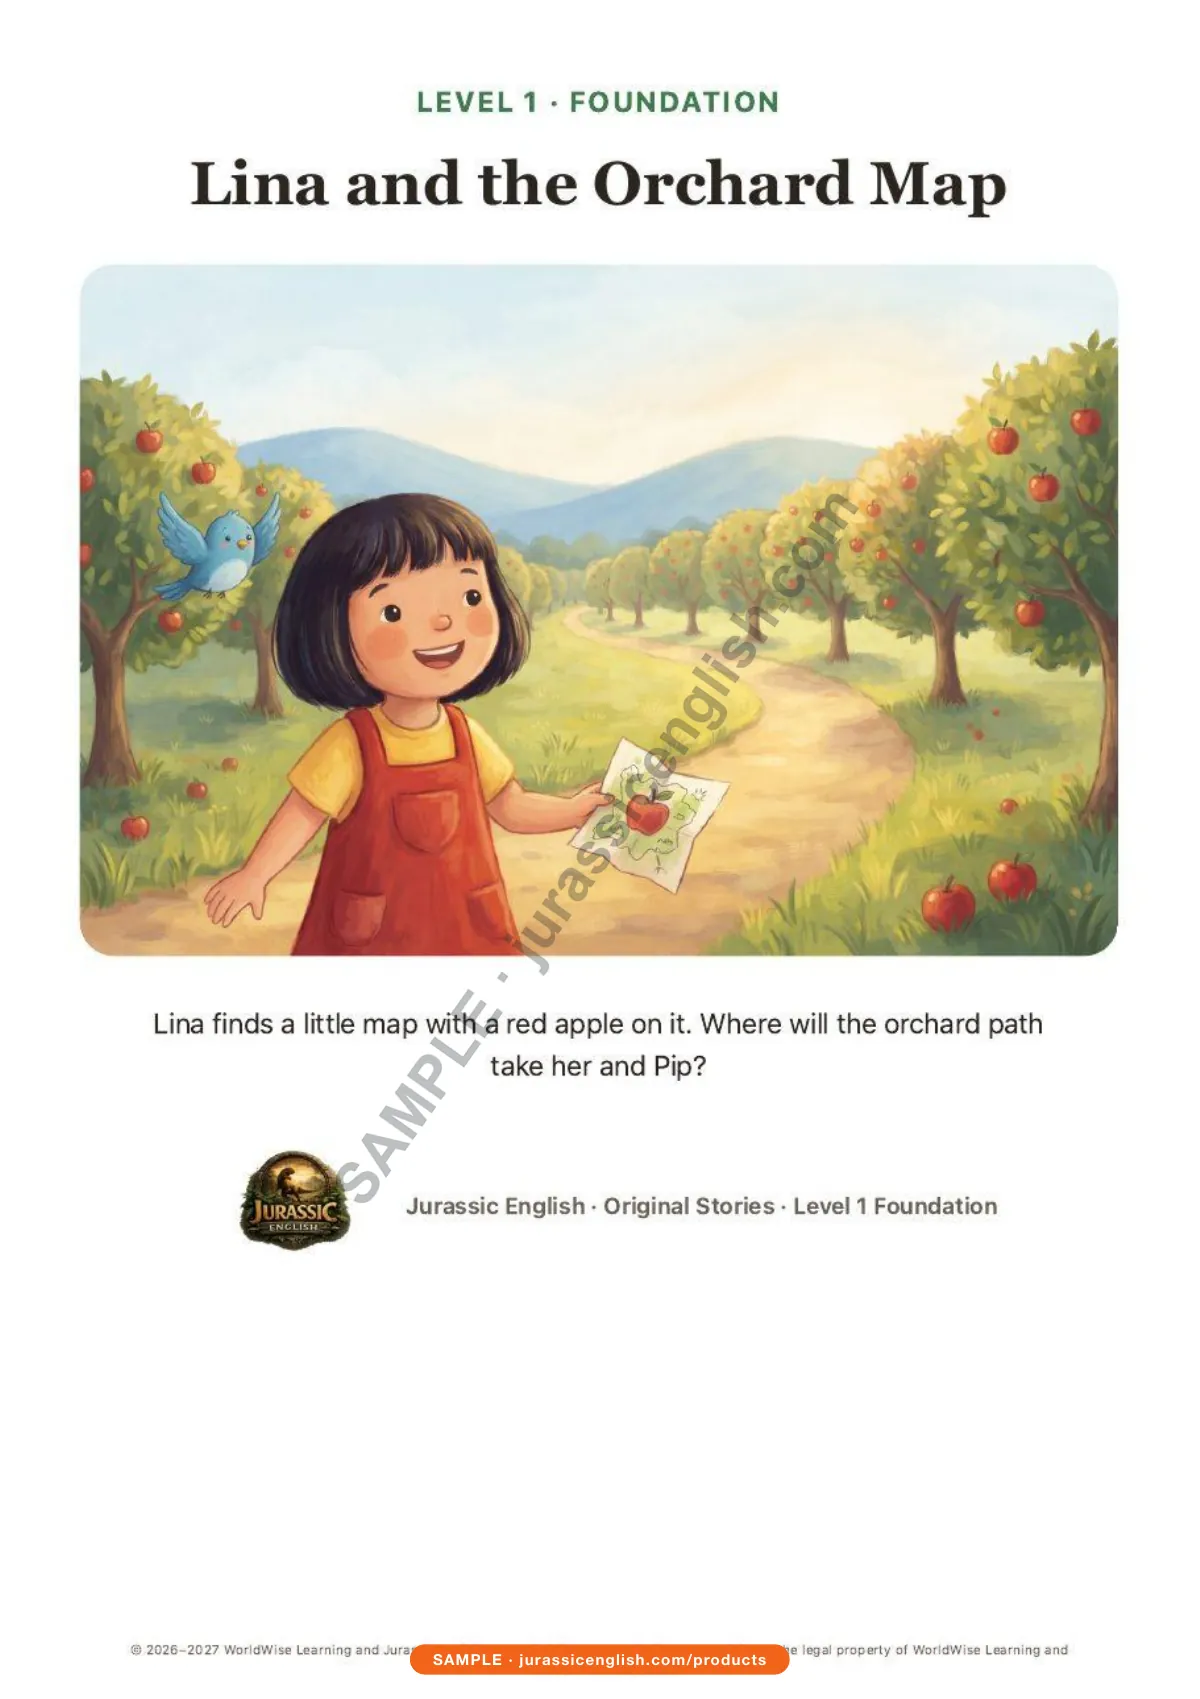
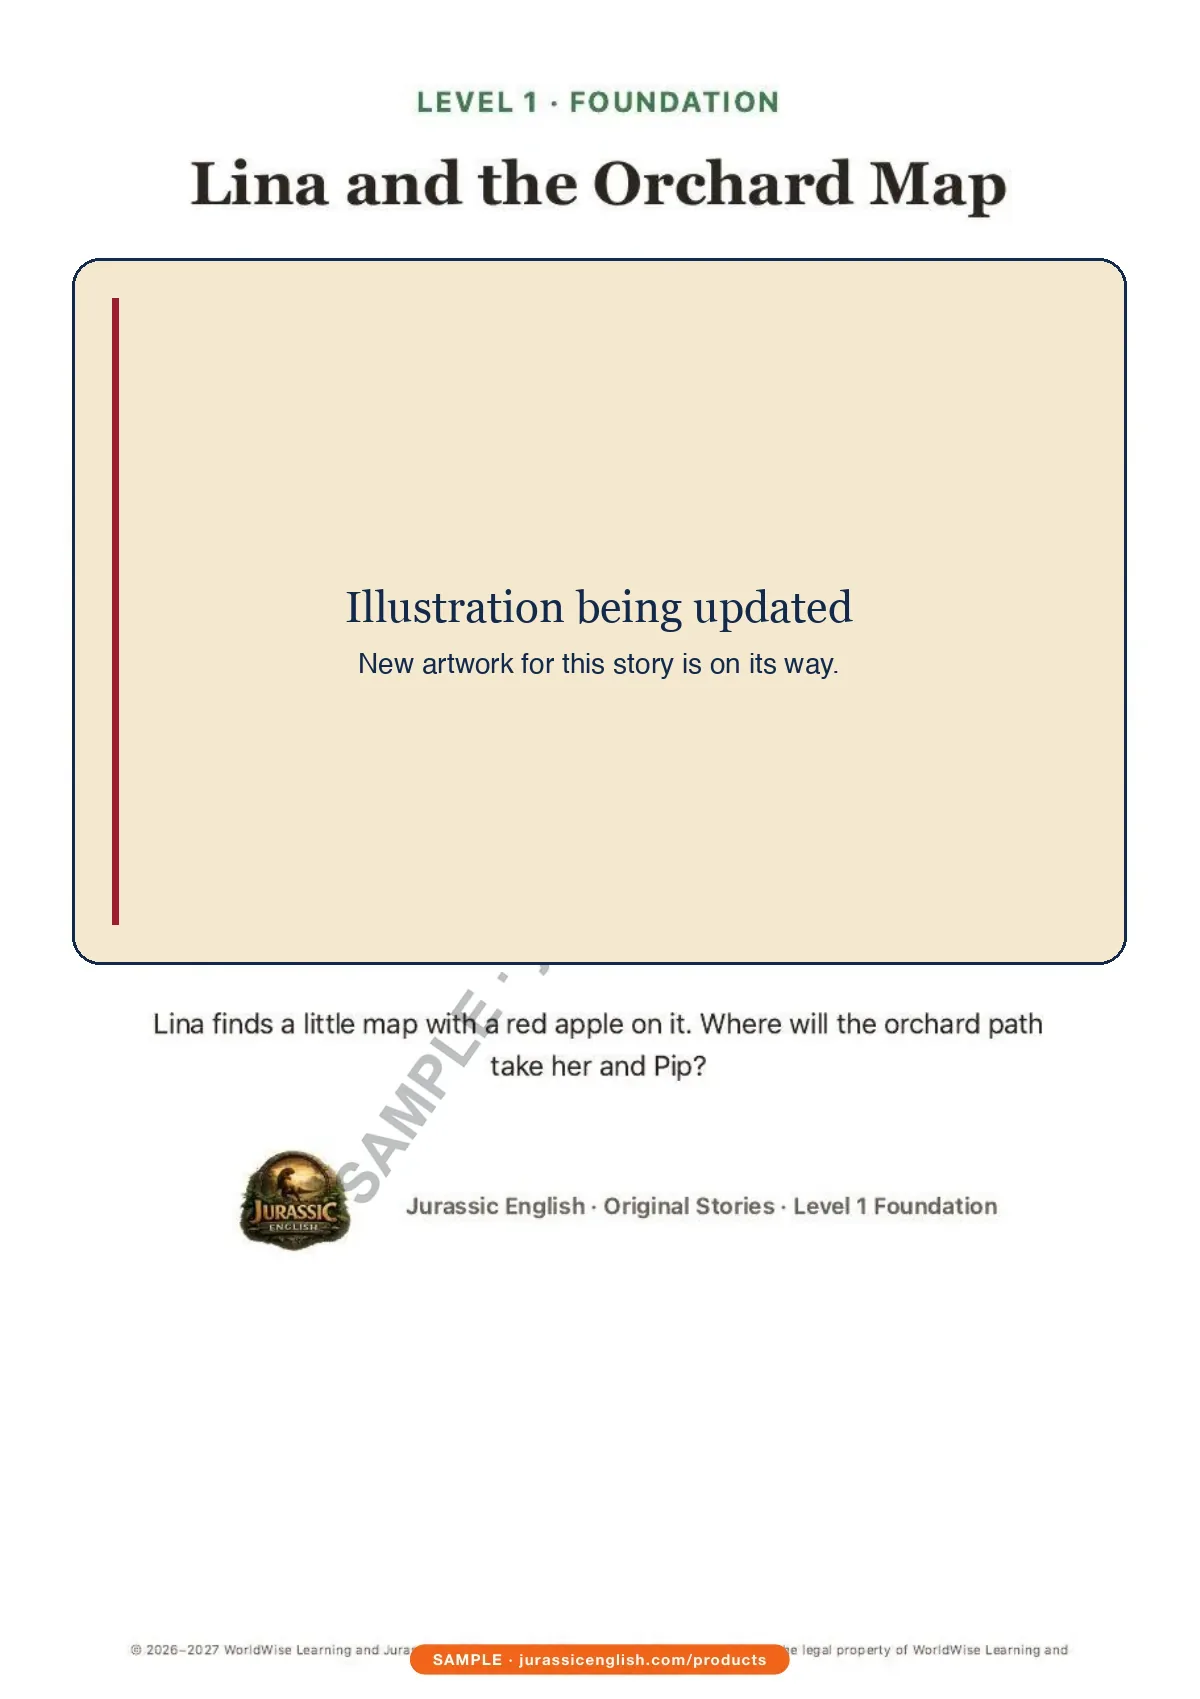
P1 Lina hold: cover the Lina illustration on the Printable Pack sample page (#312)
* Printable Pack sample: cover the Lina illustration on page 15 until the new artwork is approved

Owner directive, P1 Lina hold follow-up, 11 Nov 2026: "Temporarily suppress or replace Lina's old artwork in the public Printable Pack sample". The page keeps its size, title, text, watermark and footer; only the picture area is replaced by a neutral panel ("Illustration being updated"). The original page image is preserved privately outside the repository and in git history. The page's text record is unchanged apart from the image hash; the approved-revision list goes from seven to eight.

* Tests: the full server-handler refusal test now covers the two held packs

The handler-level test (a payment-code request and an order request both answer 400 and write nothing to the CRM) listed only the nine products paused on 11 Nov morning. printable-pack and parent-pack-l1, held under the P1 Lina directive, are added. Test only.

---------

diff --git a/tests/sample-text.test.ts b/tests/sample-text.test.ts
@@ -80,8 +80,9 @@ test('build-time preparation rejects unknown/incomplete CLI arguments instead of
 });
 
 
-test('only the seven approved changed viewer images receive content-bound browser cache revisions', () => {
-  const expected = ['ielts-writing-teacher-pack-pg01.webp', 'parent-pack-l2-pg01.webp', 'parent-pack-l2-pg02.webp', 'parent-pack-l2-pg03.webp', 'parent-pack-l2-pg04.webp', 'parent-pack-l2-pg09.webp', 'parent-pack-l2-pg10.webp'];
+// Eight since 11 Nov 2026 (Jay, P1 Lina hold): printable-pack-l1-pg15 has its Lina illustration covered until the new art is approved.
+test('only the eight approved changed viewer images receive content-bound browser cache revisions', () => {
+  const expected = ['ielts-writing-teacher-pack-pg01.webp', 'parent-pack-l2-pg01.webp', 'parent-pack-l2-pg02.webp', 'parent-pack-l2-pg03.webp', 'parent-pack-l2-pg04.webp', 'parent-pack-l2-pg09.webp', 'parent-pack-l2-pg10.webp', 'printable-pack-l1-pg15.webp'];
   assert.deepEqual(Object.keys(SAMPLE_PAGE_REVISIONS).sort(), expected.sort());
   let revised = 0;
   for (const product of PRODUCTS.filter(p => p.group !== 'bundles')) for (const url of productSampleFiles(product.sample!).pages) {
@@ -93,5 +94,5 @@ test('only the seven approved changed viewer images receive content-bound browse
       assert.equal(parsed.searchParams.get('v'), prefix); revised++;
     } else assert.equal(parsed.search, '', `${file}: unchanged browser URL`);
   }
-  assert.equal(revised, 7);
+  assert.equal(revised, 8);
 });

diff --git a/tests/sample-pack-handler.test.ts b/tests/sample-pack-handler.test.ts
@@ -307,7 +307,8 @@ test('non-SC checkout fails closed without a stored memo even when email works',
   assert.equal(result.reservationCalls, 0);
 });
 
-const PAUSED = ['teacher-pack-l2', 'teacher-pack-l3', 'teacher-pack-l4', 'teacher-pack-l5', 'teacher-bundle', 'student-workbook-l2', 'student-workbook-l3', 'student-workbook-l4', 'student-workbook-l5'];
+// The last two are the packs held on 11 Nov 2026 (owner directive, P1 Lina hold): the same full-handler refusal applies.
+const PAUSED = ['teacher-pack-l2', 'teacher-pack-l3', 'teacher-pack-l4', 'teacher-pack-l5', 'teacher-bundle', 'student-workbook-l2', 'student-workbook-l3', 'student-workbook-l4', 'student-workbook-l5', 'printable-pack', 'parent-pack-l1'];
 for (const [i, product] of PAUSED.entries()) {
   test(`${product}: paused, so neither a payment code nor an order is created (audit fix 4)`, async () => {
     const prepare = await submit({ intent: 'prepare_payment', product, submissionKey: '44444444-4444-4444-8444-444444444444', website: '' }, `198.51.100.${200 + i}`);

diff --git a/src/i18n/content/samplePages.ts b/src/i18n/content/samplePages.ts
@@ -52,7 +52,7 @@ export const SAMPLE_PAGE_COUNTS: Record<string, number> = {
 export const SAMPLE_PAGE_WIDTH = 1200;
 export const SAMPLE_PAGE_HEIGHT = 1699;
 
-// Only the seven approved replacement images need new browser cache keys.
+// Only the eight approved replacement images need new browser cache keys.
 export const SAMPLE_PAGE_REVISIONS: Record<string, string> = {
   'ielts-writing-teacher-pack-pg01.webp': 'a75be50f744a',
   'parent-pack-l2-pg01.webp': 'e22b3db246a4',
@@ -61,4 +61,7 @@ export const SAMPLE_PAGE_REVISIONS: Record<string, string> = {
   'parent-pack-l2-pg04.webp': '5dccb5eadaca',
   'parent-pack-l2-pg09.webp': '9c0ecd3eefa6',
   'parent-pack-l2-pg10.webp': 'ab39bf2332a0',
+  // 11 Nov 2026 (Jay, P1 Lina hold follow-up): the Lina cover illustration on this page is covered by a neutral panel
+  // until the replacement artwork is approved. The original page image is kept privately, outside this repository.
+  'printable-pack-l1-pg15.webp': 'd1396ccc2d0f',
 };
